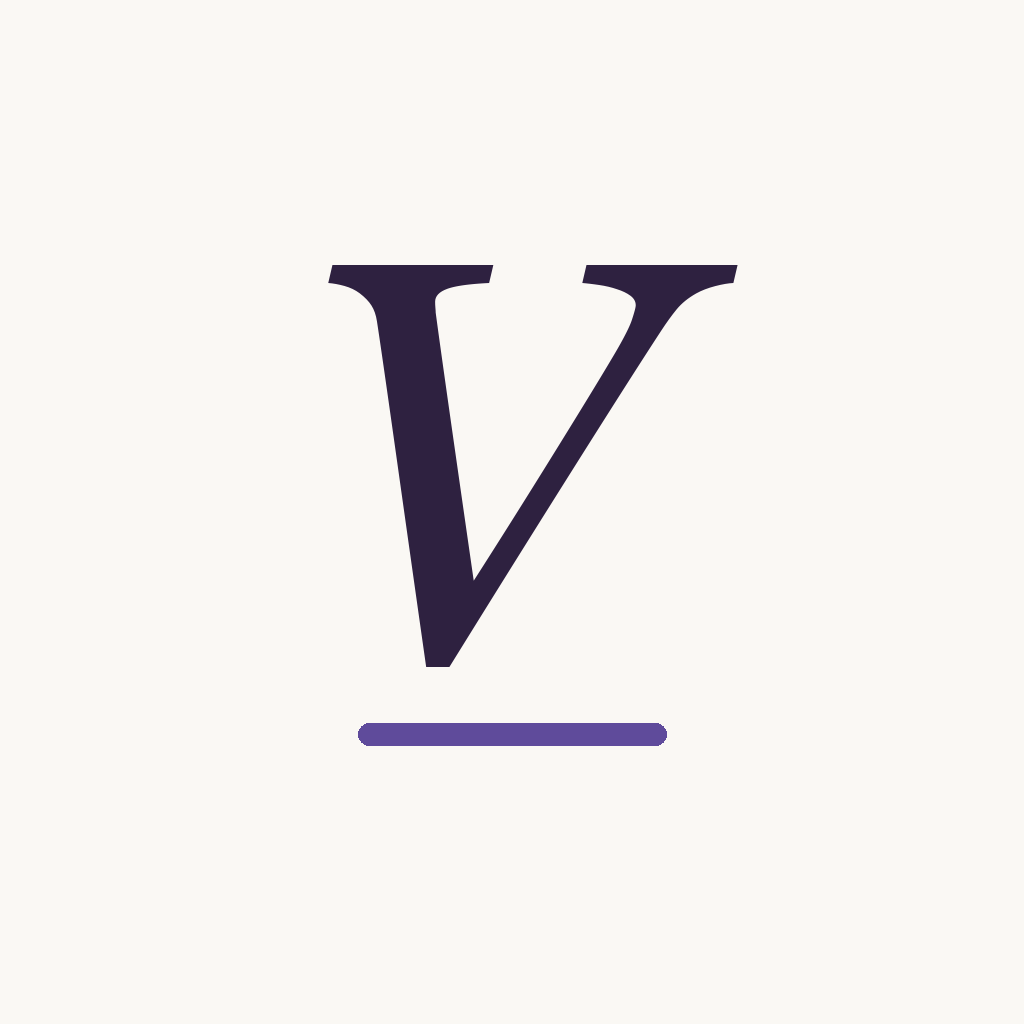
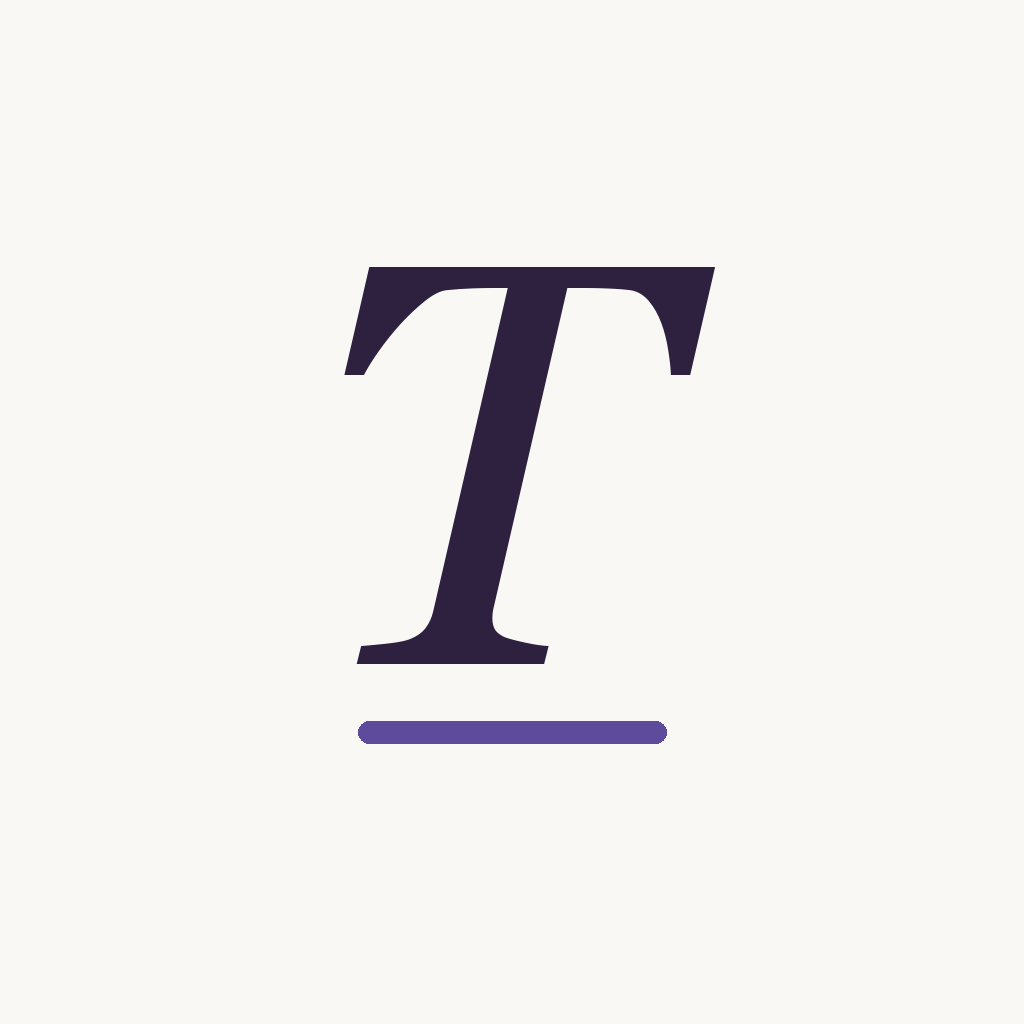
feat: l'aplicacio passa a dir-se TarraDona Literaria
L'app es deia igual que el projecte i no son el mateix. «Veus de dona a
Tarragona» es un projecte amb diversos itineraris repartits en quaranta-una
ubicacions de la ciutat; aquesta aplicacio en dona suport a un, la Ruta de
les 13 escriptores per la Part Alta, de deu parades. Amb el nom compartit
calia explicar la diferencia cada vegada; amb nom propi s'enten sola, i deixa
clar que l'aplicacio no s'atribueix tot el projecte.

El nom va a constants i no a les traduccions: es un nom propi i no es
tradueix.

components/Logotip el dibuixa en dos pisos -el nom en cursiva i, a sota i
molt mes petit, «Literaria»- perque el nom es el que s'ha de recordar i la
paraula que l'acota no li ha de disputar el pes. Sortia copiat a ma a les
pantalles d'acces. Es llegeix com un sol element, que un lector de pantalla
ha de dir el nom sencer d'una tirada.

Sota la icona hi va nomes «TarraDona»: els llancadors trunquen l'etiqueta
cap als onze caracters.

La marca portava una V de Veus; ara es una T.

Changed region(s): [[0.3125, 0.25, 0.6875, 0.6562], [0.6875, 0.25, 0.7188, 0.2812]]

diff --git a/app/veus-de-dona-app/i18n/translations.ts b/app/veus-de-dona-app/i18n/translations.ts
@@ -299,7 +299,6 @@ export const ca = {
   "admin.assign": "Assignar",
 
   "perfil.about": "Sobre el projecte",
-  "sobre.title": "Veus de Dona",
   "sobre.leadIn": "Un projecte de ruta literària per Tarragona des d'una perspectiva femenina.",
   "sobre.projectHeading": "El projecte",
   "sobre.projectBody": "«Veus de dona a Tarragona» és un projecte que proposa recórrer la ciutat des d'una perspectiva femenina, de manera virtual i també presencial. Neix d'un grup de treball de professionals de l'ensenyament secundari i aplega textos, biografies, traduccions, materials didàctics, audiovisuals de les autores i prop d'un centenar d'àudios enregistrats per alumnat, repartits en quaranta-una ubicacions de la ciutat.",
@@ -617,7 +616,6 @@ export const es: typeof ca = {
   "admin.assign": "Asignar",
 
   "perfil.about": "Sobre el proyecto",
-  "sobre.title": "Veus de Dona",
   "sobre.leadIn": "Un proyecto de ruta literaria por Tarragona desde una perspectiva femenina.",
   "sobre.projectHeading": "El proyecto",
   "sobre.projectBody": "«Veus de dona a Tarragona» es un proyecto que propone recorrer la ciudad desde una perspectiva femenina, de forma virtual y también presencial. Nace de un grupo de trabajo de profesionales de la enseñanza secundaria y reúne textos, biografías, traducciones, materiales didácticos, audiovisuales de las autoras y cerca de un centenar de audios grabados por alumnado, repartidos en cuarenta y una ubicaciones de la ciudad.",
@@ -935,7 +933,6 @@ export const en: typeof ca = {
   "admin.assign": "Set",
 
   "perfil.about": "About the project",
-  "sobre.title": "Veus de Dona",
   "sobre.leadIn": "A literary route project through Tarragona from a woman's perspective.",
   "sobre.projectHeading": "The project",
   "sobre.projectBody": "«Veus de dona a Tarragona» is a project that invites you to walk the city from a woman's perspective, online and on foot. It grew out of a working group of secondary school teachers and brings together texts, biographies, translations, teaching material, audiovisual pieces by the writers and close to a hundred recordings made by students, spread across forty-one locations in the city.",

diff --git a/app/veus-de-dona-app/components/Logotip.tsx b/app/veus-de-dona-app/components/Logotip.tsx
@@ -1,0 +1,49 @@
+import { View, Text } from "react-native";
+import { APP, COLORS, FONTS } from "../constants";
+
+/**
+ * El logotip de l'aplicació: el nom en cursiva i, a sota i molt més petit,
+ * «Literària».
+ *
+ * Va en dos pisos perquè el nom és el que s'ha de recordar i la paraula que
+ * l'acota no li ha de disputar el pes. Sortia a tres pantalles copiat a mà.
+ *
+ * Es llegeix com un sol element: un lector de pantalla ha de dir el nom
+ * sencer d'una tirada, no partit en dues línies soltes.
+ */
+export function Logotip({ mida = 22 }: { mida?: number }) {
+  return (
+    <View accessible accessibilityRole="header" accessibilityLabel={`${APP.nom} ${APP.subtitol}`}>
+      <Text
+        style={{
+          fontFamily: FONTS.serif,
+          fontStyle: "italic",
+          fontSize: mida,
+          lineHeight: mida * 1.25,
+          color: COLORS.text,
+          textAlign: "center",
+        }}
+        maxFontSizeMultiplier={1.3}
+      >
+        {APP.nom}
+      </Text>
+      <Text
+        style={{
+          fontFamily: FONTS.sans,
+          fontSize: Math.max(9, Math.round(mida * 0.42)),
+          fontWeight: "600",
+          letterSpacing: Math.max(1.5, mida * 0.14),
+          textTransform: "uppercase",
+          color: COLORS.textSecondary,
+          textAlign: "center",
+          // compensa l'espaiat, que empeny el text cap a l'esquerra
+          marginLeft: Math.max(1.5, mida * 0.14),
+          marginTop: 1,
+        }}
+        maxFontSizeMultiplier={1.2}
+      >
+        {APP.subtitol}
+      </Text>
+    </View>
+  );
+}

diff --git a/app/veus-de-dona-app/constants/index.ts b/app/veus-de-dona-app/constants/index.ts
@@ -5,8 +5,9 @@ import { Platform } from "react-native";
  *
  * Paper crema i tinta amb una ombra d'aubergínia. El fosc no és un negre
  * neutre sinó que comparteix temperatura amb el violeta, de manera que el
- * color del moviment feminista -que en una app que es diu Veus de Dona és
- * significat i no decoració- deixa de ser un accent solitari i tenyeix també
+ * color del moviment feminista -que en una app sobre les veus de tretze
+ * escriptores és significat i no decoració- deixa de ser un accent solitari
+ * i tenyeix també
  * les capçaleres, els botons plens i el vel de les fotografies. De lluny es
  * llegeix com a negre; de prop, el conjunt té temperatura.
  *
@@ -109,6 +110,22 @@ export const ROTUL_SECCIO = {
   textTransform: "uppercase",
   color: COLORS.textSecondary,
 } as const;
+
+/**
+ * El nom de l'aplicació, que no és el del projecte.
+ *
+ * «Veus de dona a Tarragona» és un projecte amb diversos itineraris repartits
+ * en quaranta-una ubicacions de la ciutat; aquesta aplicació en dona suport a
+ * un, la Ruta de les 13 escriptores per la Part Alta, de deu parades. Mentre
+ * l'app es deia igual que el projecte, la diferència s'havia d'explicar cada
+ * vegada. Amb nom propi s'entén sola.
+ *
+ * No va a les traduccions perquè és un nom propi: no es tradueix.
+ */
+export const APP = {
+  nom: "TarraDona",
+  subtitol: "Literària",
+};
 
 /**
  * Dades del projecte que la pantalla d'informació ensenya.

diff --git a/app/veus-de-dona-app/app/(auth)/register.tsx b/app/veus-de-dona-app/app/(auth)/register.tsx
@@ -4,6 +4,7 @@ import { useRouter } from "expo-router";
 import { COLORS, FONTS, PASSWORD_MIN_LENGTH, ROTUL_SECCIO } from "../../constants";
 import { useAuth } from "../../contexts/AuthContext";
 import { useLanguage } from "../../contexts/LanguageContext";
+import { Logotip } from "../../components/Logotip";
 import FormField from "../../components/FormField";
 import { missatgeError, correuSemblaValid } from "../../services/errors";
 
@@ -66,20 +67,9 @@ export default function RegisterScreen() {
         contentContainerStyle={{ flexGrow: 1, justifyContent: "center", paddingHorizontal: 20, paddingVertical: 24 }}
         keyboardShouldPersistTaps="handled"
       >
-        <Text
-          accessibilityRole="header"
-          style={{
-            fontFamily: FONTS.serif,
-            fontStyle: "italic",
-            fontSize: 20,
-            color: COLORS.text,
-            textAlign: "center",
-            marginBottom: 16,
-          }}
-          maxFontSizeMultiplier={1.5}
-        >
-          Veus de Dona
-        </Text>
+        <View style={{ marginBottom: 20 }}>
+          <Logotip mida={26} />
+        </View>
 
         <FormField
           label={t("auth.name")}

diff --git a/app/veus-de-dona-app/app/(auth)/login.tsx b/app/veus-de-dona-app/app/(auth)/login.tsx
@@ -4,6 +4,7 @@ import { useRouter } from "expo-router";
 import { COLORS, FONTS } from "../../constants";
 import { useAuth } from "../../contexts/AuthContext";
 import { useLanguage } from "../../contexts/LanguageContext";
+import { Logotip } from "../../components/Logotip";
 import FormField from "../../components/FormField";
 import { missatgeError, correuSemblaValid } from "../../services/errors";
 
@@ -45,20 +46,9 @@ export default function LoginScreen() {
         contentContainerStyle={{ flexGrow: 1, justifyContent: "center", paddingHorizontal: 20 }}
         keyboardShouldPersistTaps="handled"
       >
-        <Text
-          accessibilityRole="header"
-          style={{
-            fontFamily: FONTS.serif,
-            fontStyle: "italic",
-            fontSize: 20,
-            color: COLORS.text,
-            textAlign: "center",
-            marginBottom: 16,
-          }}
-          maxFontSizeMultiplier={1.5}
-        >
-          Veus de Dona
-        </Text>
+        <View style={{ marginBottom: 20 }}>
+          <Logotip mida={26} />
+        </View>
 
         <FormField
           label={t("auth.email")}

diff --git a/app/veus-de-dona-app/app/sobre.tsx b/app/veus-de-dona-app/app/sobre.tsx
@@ -3,6 +3,7 @@ import { Ionicons } from "@expo/vector-icons";
 import { COLORS, FONTS, PROJECTE, ROTUL_SECCIO } from "../constants";
 import { useLanguage } from "../contexts/LanguageContext";
 import { Capcalera } from "../components/Capcalera";
+import { Logotip } from "../components/Logotip";
 
 /**
  * Qui hi ha darrere de la ruta, on trobar-ne la resta de material i a qui
@@ -27,18 +28,7 @@ export default function SobreScreen() {
 
         <View style={{ paddingHorizontal: 18, paddingTop: 22, gap: 24 }}>
           <View style={{ gap: 8 }}>
-            <Text
-              style={{
-                fontFamily: FONTS.serif,
-                fontStyle: "italic",
-                fontSize: 26,
-                color: COLORS.text,
-                lineHeight: 32,
-              }}
-              maxFontSizeMultiplier={1.3}
-            >
-              {t("sobre.title")}
-            </Text>
+            <Logotip mida={30} />
             <Text
               style={{
                 fontFamily: FONTS.sans,
